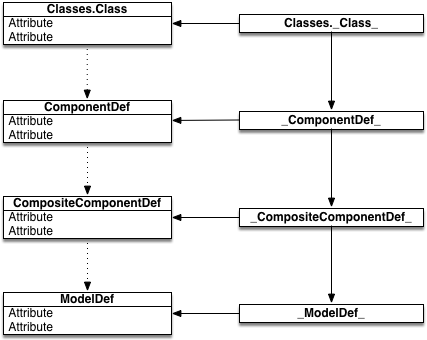
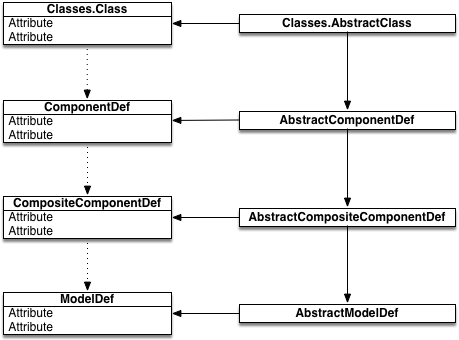
Updated docs and tests to use new naming convention for abstract types

diff --git a/README.md b/README.md
@@ -41,7 +41,7 @@ so that subclasses receive all their parent's fields in addition to those define
 Inner constructors are passed through unchanged.
 
 `Classes.jl` constructs a "shadow" abstract type hierarchy to represent the relationships among 
-the defined classes. For each class `Foo`, the abstract type `_Foo_` is defined, where `_Foo_` 
+the defined classes. For each class `Foo`, the abstract type `AbstractFoo` is defined, where `AbstractFoo` 
 is a subtype of the abstract type associated with the superclass of `Foo`.
 
 Given these two class definitions (note that `Class` is defined in `Classes.jl`):
@@ -61,24 +61,24 @@ end
 The following julia code is emitted:
 
 ```
-abstract type _Foo_ <: _Class_ end
+abstract type AbstractFoo <: AbstractClass end
 
-struct Foo{} <: _Foo_
+struct Foo{} <: AbstractFoo
     x::Int
 
     function Foo(x::Int)
         new(x)
     end
 
-    function Foo(self::T, x::Int) where T <: _Foo_
+    function Foo(self::T, x::Int) where T <: AbstractFoo
         self.x = x
         self
     end
 end
 
-abstract type _Bar_ <: _Foo_ end
+abstract type AbstractBar <: AbstractFoo end
 
-mutable struct Bar{} <: _Bar_
+mutable struct Bar{} <: AbstractBar
     x::Int
     bar::Int
 
@@ -86,7 +86,7 @@ mutable struct Bar{} <: _Bar_
         new(x, bar)
     end
 
-    function Bar(self::T, x::Int, bar::Int) where T <: _Bar_
+    function Bar(self::T, x::Int, bar::Int) where T <: AbstractBar
         self.x = x
         self.bar = bar
         self
@@ -123,13 +123,13 @@ two functions are generated by default:
 
 ```
     # "getter" function
-    get_foo(obj::_Foo_) = obj.foo
+    get_foo(obj::AbstractFoo) = obj.foo
 
     # "setter" function
-    set_foo!(obj::_Foo_, value::T) = (obj.foo = foo)
+    set_foo!(obj::AbstractFoo, value::T) = (obj.foo = foo)
 ```
 
-Note that these are defined on objects of type `_Foo_`, so they can be used on `Foo`
+Note that these are defined on objects of type `AbstractFoo`, so they can be used on `Foo`
 and any of its subclasses.
 
 See the detailed docs for information on customizing the names of accessor functions.
@@ -149,12 +149,12 @@ Thus the following `@method` invocation
 emits essentially the following code:
 
 ```
-my_method(obj::_Bar_, other, stuff) = do_something(obj, other, args)
+my_method(obj::AbstractBar, other, stuff) = do_something(obj, other, args)
 ```
 
 The only change is that the type of first argument is changed to the abstract supertype
 associated with the concrete type `Bar`, allowing subclasses of `Bar` -- whose
-abstract supertype would by a subtype of `_Bar_` -- to use the method as well. Since 
+abstract supertype would by a subtype of `AbstractBar` -- to use the method as well. Since 
 the subclass contains a superset of the fields in the superclass, this works out fine.
 
 Subclasses can override a superclass method by redefining the method on the
@@ -163,10 +163,10 @@ more specific class.
 The `@class` macro emits the following function:
 
 ```
-get_foo(obj::_Foo_) = obj.foo
+get_foo(obj::AbstractFoo) = obj.foo
 ```
 
-Since `Bar <: _Bar_ <: _Foo_`,  the method also applies to instances of `Bar`.
+Since `Bar <: AbstractBar <: AbstractFoo`,  the method also applies to instances of `Bar`.
 
 ```
 julia> f = Foo(1)

diff --git a/docs/src/index.md b/docs/src/index.md
@@ -45,12 +45,12 @@ in several forms:
 
   ```
     # "getter" function
-    get_foo(obj::_Foo_) = obj.foo
+    get_foo(obj::AbstractFoo) = obj.foo
 
     # "setter" function
-    set_foo!(obj::_Foo_, value::T) = (obj.foo = foo)
+    set_foo!(obj::AbstractFoo, value::T) = (obj.foo = foo)
   ```
-  Note that these are defined on objects of type `_Foo_`, so they can be used on `Foo`
+  Note that these are defined on objects of type `AbstractFoo`, so they can be used on `Foo`
   and any of its subclasses.
 
 Whether to emit these functions, and, if so, how to name them can be controlled by
@@ -153,7 +153,7 @@ Produces the following methods:
 ```
 # Custom constructors defined inside the @class above
 Foo()
-Foo(self::_Foo_)
+Foo(self::AbstractFoo)
 
 #
 # Methods emitted by @class macro for Foo
@@ -163,17 +163,17 @@ Foo(self::_Foo_)
 Foo(foo::Int64)
 
 # local-field initializer
-Foo(self::T, foo::Int64) where T<:_Foo_ 
+Foo(self::T, foo::Int64) where T<:AbstractFoo
 
 # field accessors
-get_foo(obj::_Foo_) = obj.foo
-set_foo!(obj::_Foo_, value::Int) = (obj.foo = value)
+get_foo(obj::AbstractFoo) = obj.foo
+set_foo!(obj::AbstractFoo, value::Int) = (obj.foo = value)
 
 # Custom constructor defined inside the @class above
 Bar()
 
 # Custom initializer defined inside the @class above
-Bar(self::Union{Nothing, _Bar_})
+Bar(self::Union{Nothing, AbstractBar})
 
 #
 # Methods emitted by @class macro for Bar
@@ -183,17 +183,17 @@ Bar(self::Union{Nothing, _Bar_})
 Bar(foo::Int64, bar::Int64)
 
 # local-fields initializer
-Bar(self::T, bar::Int64) where T<:_Bar_
+Bar(self::T, bar::Int64) where T<:AbstractBar
 
 # all fields initializer
-Bar(self::T, foo::Int64, bar::Int64) where T<:_Bar_  
+Bar(self::T, foo::Int64, bar::Int64) where T<:AbstractBar 
 
 #  Superclass-copy initializer 
 Bar(bar::Int64, s::Foo)
 
 # field accessors
-get_bar(obj::_Bar_) = obj.bar
-set_bar!(obj::_Bar_, value::Int) = (obj.bar = value)
+get_bar(obj::AbstractBar) = obj.bar
+set_bar!(obj::AbstractBar, value::Int) = (obj.bar = value)
 ```
 
 ## Example from Mimi
@@ -203,7 +203,7 @@ subclass relationships, which exist outside the julia type system.
 
 ![Mimi component structure](figs/Classes.png)
 
-Each class as a corresponding "shadow" abstract supertype (of the same name surrounded by underscores) which is a parent to all abstract supertypes of its subclasses. The subclasses of, say, `ComponentDef` are all subtypes of `_ComponentDef_`, thus methods defined as
+Each class as a corresponding "shadow" abstract supertype (of the same name surrounded by underscores) which is a parent to all abstract supertypes of its subclasses. The subclasses of, say, `ComponentDef` are all subtypes of `AbstractComponentDef`, thus methods defined as
 
 ```
 @method function foo(obj::ComponentDef)
@@ -214,7 +214,7 @@ end
 are emitted essentially as the following:
 
 ```
-function foo(obj::T) where {T <: _ComponentDef_}
+function foo(obj::T) where {T <: AbstractComponentDef}
     ...
 end
 ```
